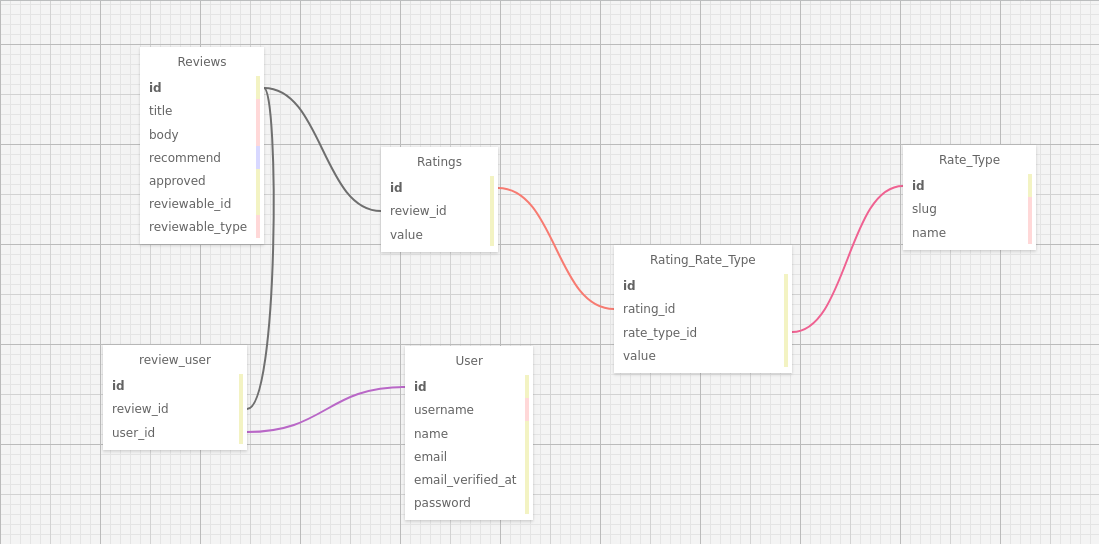
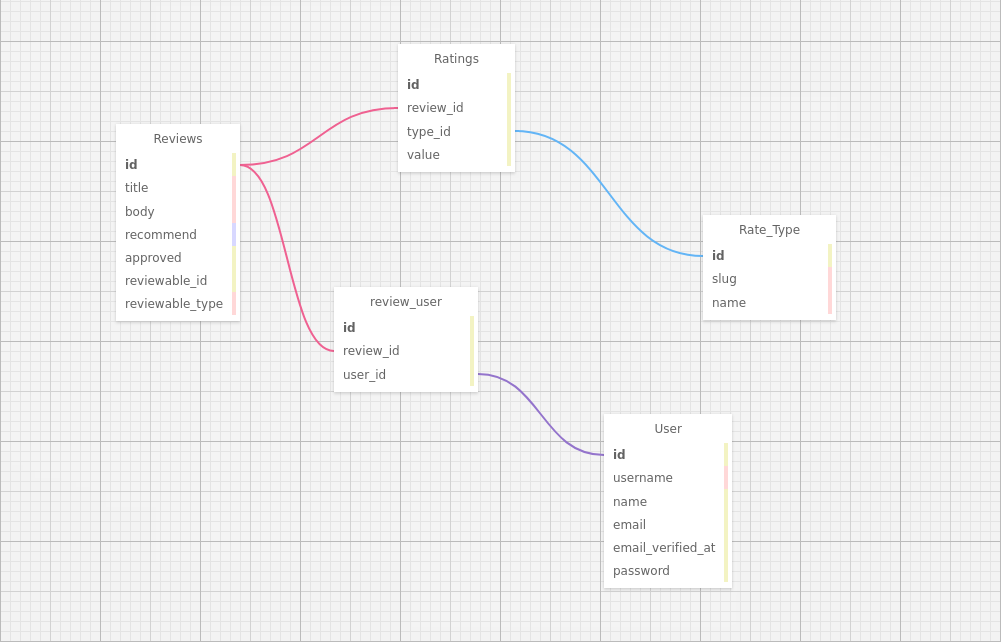
Simplified Database and Relationships

diff --git a/src/R8ServiceProvider.php b/src/R8ServiceProvider.php
@@ -18,7 +18,6 @@ class R8ServiceProvider extends ServiceProvider
             __DIR__.'/../database/migrations/create_reviews_table.php.stub' => $this->app->databasePath()."/migrations/{$this->timestamp(10)}_create_reviews_table.php",
             __DIR__.'/../database/migrations/create_ratings_table.php.stub' => $this->app->databasePath()."/migrations/{$this->timestamp(20)}_create_ratings_table.php",
             __DIR__.'/../database/migrations/create_rate_types_table.php.stub' => $this->app->databasePath()."/migrations/{$this->timestamp(30)}_create_rate_types_table.php",
-            __DIR__.'/../database/migrations/create_rating_rate_type_table.php.stub' => $this->app->databasePath()."/migrations/{$this->timestamp(40)}_create_rating_rate_type_table.php",
             __DIR__.'/../database/migrations/create_review_user_table.php.stub' => $this->app->databasePath()."/migrations/{$this->timestamp(50)}_create_review_user_table.php",
         ], 'migrations');
     }

diff --git a/src/Models/Rating.php b/src/Models/Rating.php
@@ -13,6 +13,8 @@ class Rating extends Model
 
 	protected $gaurded = ['id','created_at'];
 
+	protected $fillable = ['value'];
+
 	/**
 	 * Reviews
 	 * 
@@ -27,12 +29,12 @@ class Rating extends Model
 	/**
 	 * Rate Types
 	 * 
-	 * @return \Illuminate\Database\Eloquent\Relations\BelongsToMany
+	 * @return \Illuminate\Database\Eloquent\Relations\BelongsTo
 	 */
 
 	public function type()
 	{
-		return $this->belongsToMany(RateType::class, 'rating_rate_type');
+		return $this->belongsTo(RateType::class);
 	}
 
 	/**

diff --git a/src/Models/RateType.php b/src/Models/RateType.php
@@ -15,12 +15,12 @@ class RateType extends Model
 	/**
 	 * Reviews Types
 	 * 
-	 * @return \Illuminate\Database\Eloquent\Relations\BelongsToMany
+	 * @return \Illuminate\Database\Eloquent\Relations\HasMany
 	 */
 
 	public function ratings()
 	{
-		return $this->belongsToMany(Rating::class, 'rating_rate_type')->withPivot('value');
+		return $this->hasMany(Rating::class, 'rating_rate_type')->withPivot('value');
 	}
 
 }

diff --git a/src/Models/Review.php b/src/Models/Review.php
@@ -54,7 +54,7 @@ class Review extends Model
      */
     public function ofType($type, $id = null, $sort = 'desc')
     {
-		$reviewType = ReviewType::where('slug', $type)->get();
+		$reviewType = RateType::where('slug', $type)->get();
 		if ($id != null) {
 			$reviews = $reviewType->reviews
 								->where('rateable_id', $id)
